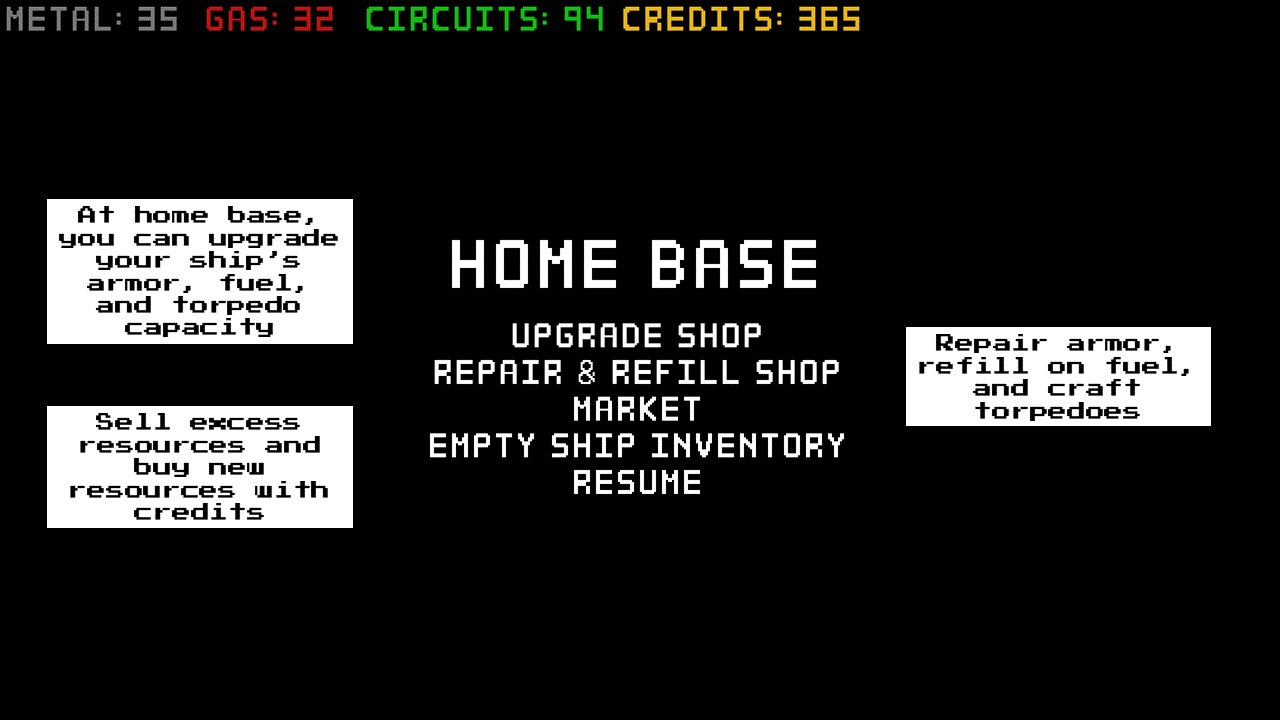
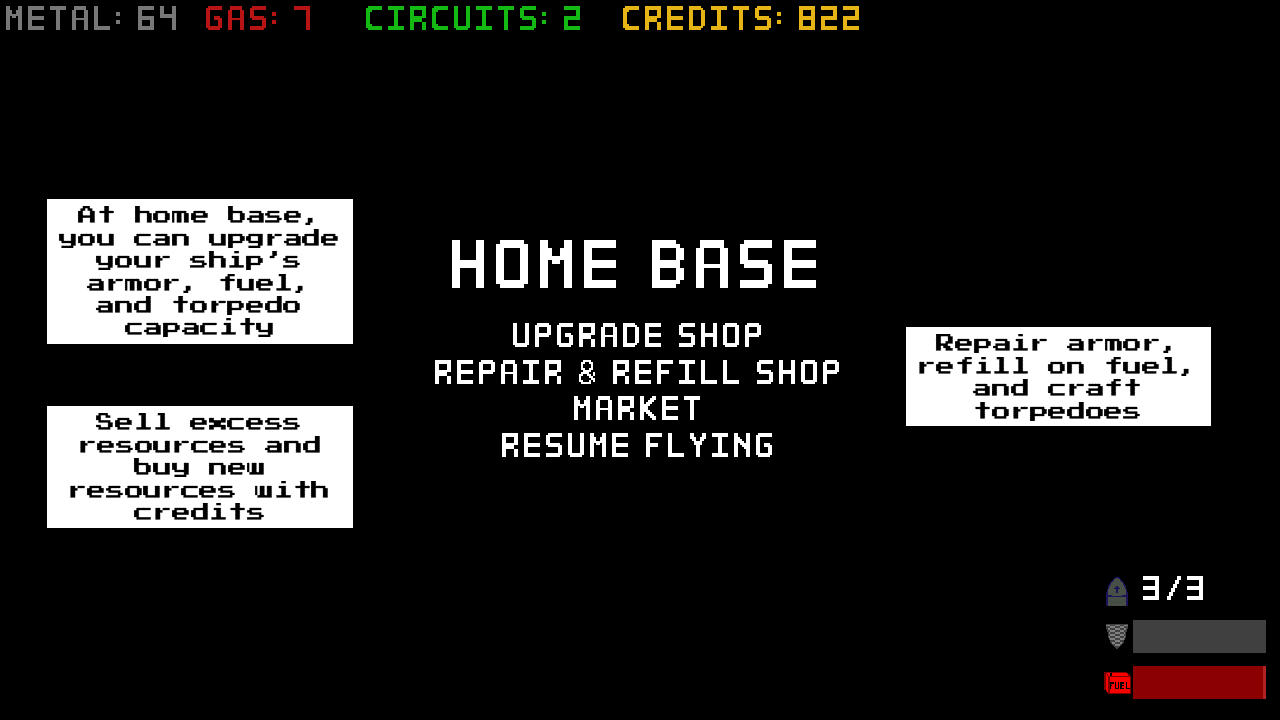
automated away 'empty ship inventory'
also changed tutorial to match

diff --git a/UIscreens.py b/UIscreens.py
@@ -156,14 +156,10 @@ def homeinitUI(screen, inventory):
     pygame.display.flip()
 
     pygame.time.wait(waitTime)
-    Texthelper.write(screen, [("center", 540+110), "empty ship inventory", 3])
+    Texthelper.write(screen, [("center", 540+110), "Resume Flying", 3])
     pygame.display.flip()
 
-    pygame.time.wait(waitTime)
-    Texthelper.write(screen, [("center", 540+165), "resume", 3])
-    pygame.display.flip()
-
-def homeUI(screen, shipInventory, homeInventory, freeStuff, currentStats, totalStats):
+def homeUI(screen, homeInventory, freeStuff, currentStats, totalStats):
     status = "home"
     graphics.drawInventory(screen, homeInventory)
     Texthelper.write(screen, [("center", 540-180), "home base", 6])
@@ -173,18 +169,7 @@ def homeUI(screen, shipInventory, homeInventory, freeStuff, currentStats, totalS
         status = "shopinit"
     if Texthelper.writeButton(screen, [("center", 540+55), "market", 3]):
         status = "marketinit"
-    message = "empty ship inventory"
-    if shipInventory != [0,0,0,0]:
-        message = "-+-empty ship inventory-+-" 
-    if Texthelper.writeButton(screen, [("center", 540+110), message, 3]):
-        homeInventory[0] += shipInventory[0]
-        homeInventory[1] += shipInventory[1]
-        homeInventory[2] += shipInventory[2]
-        homeInventory[3] += shipInventory[3]
-        for i in range(4): #can't just do = [0,0,0,0] because of scope and lists
-            shipInventory[i] = 0
-        status = "homeinit"
-    if Texthelper.writeButton(screen, [("center", 540+165), "Resume", 3]):
+    if Texthelper.writeButton(screen, [("center", 540+110), "Resume Flying", 3]):
         status = "game"
         pygame.mouse.set_visible(False)
 
@@ -498,6 +483,13 @@ class shopStorage():
 
 #actually the setup for home, not shop \< sorry for the confused naming
 def setupShop(shipLv, shipInventory, homeInventory, currentStats, totalStats, color):
+    homeInventory[0] += shipInventory[0]
+    homeInventory[1] += shipInventory[1]
+    homeInventory[2] += shipInventory[2]
+    homeInventory[3] += shipInventory[3]
+    for i in range(4): #can't just do = [0,0,0,0] because of scope and lists
+        shipInventory[i] = 0
+    
     shopStorage.shopStatus = "home"
     shopStorage.shipLv = shipLv
     shopStorage.shipInventory = shipInventory
@@ -584,7 +576,7 @@ def home(screen, freeStuff):
         shopStatus = "home"
     
     elif shopStatus == "home":
-        shopStatus = homeUI(screen, shipInventory, homeInventory, freeStuff, currentStats, totalStats)
+        shopStatus = homeUI(screen, homeInventory, freeStuff, currentStats, totalStats)
     
     shopStorage.shopStatus = shopStatus
     pygame.display.flip()

diff --git a/main.py b/main.py
@@ -117,7 +117,7 @@ def main():
     earthpic = scaleImage(loadImage("Assets\\images\\earth.tif"), 3*scalarscalar)
     proppic = scaleImage(loadImage("Assets\\images\\doingmypart.png"), 3*scalarscalar)
     proppic.set_colorkey((255,255,255))
-    tutorialslides = 8 #number of tutorial slides
+    tutorialslides = 7 #number of tutorial slides
     tutorialpics = []
     for i in range(1, tutorialslides + 1):
         tutorialpics.append(loadImage("Assets\\tutorial\\slide" + str(i) + ".png"))
